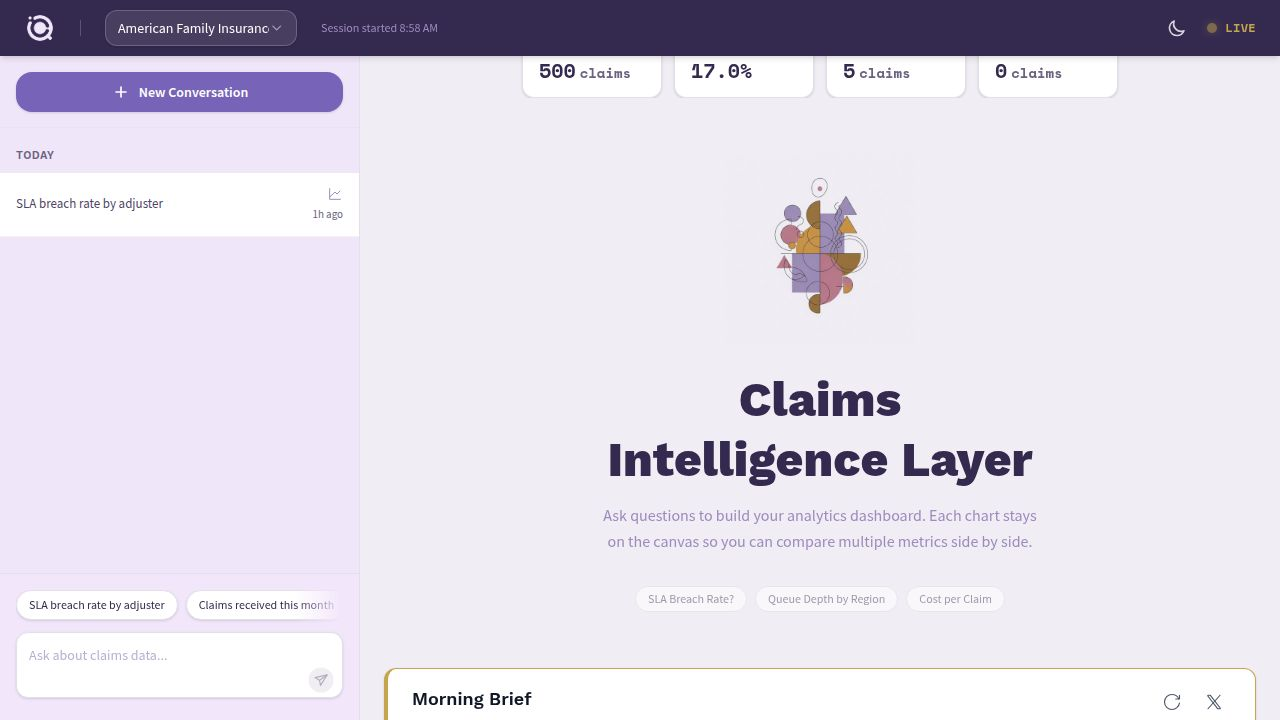
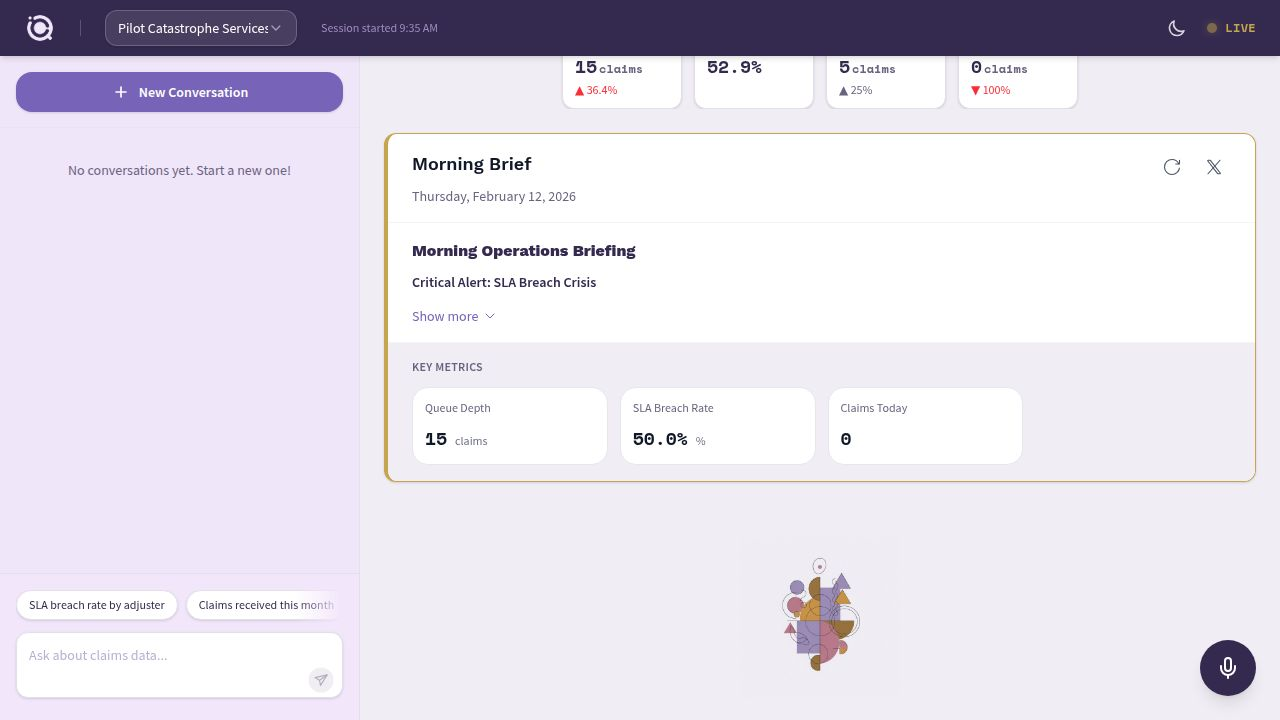
Add week-over-week comparisons for key performance indicators
Update the KPI API to fetch previous week's data and calculate trends. Modify the KPICards component to display trend indicators and delta percentages, including conditional coloring for different metrics.

Replit-Commit-Author: Agent
Replit-Commit-Session-Id: e85cfd7e-20cd-45e2-a64c-8139bcba09b3
Replit-Commit-Checkpoint-Type: intermediate_checkpoint
Replit-Commit-Event-Id: 9e2c9d2c-c643-4b72-8db5-089f8907195e
Replit-Commit-Screenshot-Url: https://storage.googleapis.com/screenshot-production-us-central1/07e38f39-cdea-4e9b-a3f0-44df17dc898c/e85cfd7e-20cd-45e2-a64c-8139bcba09b3/IcplSNJ
Replit-Helium-Checkpoint-Created: true

diff --git a/server/routes/kpis.ts b/server/routes/kpis.ts
@@ -4,36 +4,68 @@ import { getDefaultClientId } from "../config/defaults";
 
 export const kpisRouter = Router();
 
+function computeTrend(current: number, previous: number): { trend: "up" | "down" | "neutral"; delta: number } {
+  if (previous === 0) return { trend: "neutral", delta: 0 };
+  const delta = ((current - previous) / previous) * 100;
+  const rounded = Math.round(delta * 10) / 10;
+  if (rounded > 0) return { trend: "up", delta: rounded };
+  if (rounded < 0) return { trend: "down", delta: Math.abs(rounded) };
+  return { trend: "neutral", delta: 0 };
+}
+
 kpisRouter.get("/api/kpis", async (req: Request, res: Response) => {
   try {
     const clientId =
       (req.query.client_id as string) || await getDefaultClientId();
 
+    const safeClientId = clientId.replace(/'/g, "''");
     const today = new Date().toISOString().split("T")[0];
-    const todayStart = today + "T00:00:00";
     const todayEnd = today + "T23:59:59";
     const weekAgo = new Date(Date.now() - 7 * 24 * 60 * 60 * 1000).toISOString().split("T")[0];
+    const twoWeeksAgo = new Date(Date.now() - 14 * 24 * 60 * 60 * 1000).toISOString().split("T")[0];
 
-    const [queueRes, slaRes, claimsWeekRes, closedWeekRes] = await Promise.all([
+    const [
+      queueRes, queuePrevRes,
+      slaRes, slaPrevRes,
+      claimsWeekRes, claimsPrevWeekRes,
+      closedWeekRes, closedPrevWeekRes,
+    ] = await Promise.all([
       supabase.rpc("execute_raw_sql", {
         query_text: `
           SELECT COUNT(*)::int as value FROM claims c
-          WHERE c.client_id = '${clientId.replace(/'/g, "''")}'
+          WHERE c.client_id = '${safeClientId}'
             AND c.status IN ('open', 'in_progress', 'review')
+        `,
+      }),
+      supabase.rpc("execute_raw_sql", {
+        query_text: `
+          SELECT COUNT(*)::int as value FROM claims c
+          WHERE c.client_id = '${safeClientId}'
+            AND c.status IN ('open', 'in_progress', 'review')
+            AND c.fnol_date < '${weekAgo}'
         `,
       }),
       supabase.rpc("execute_raw_sql", {
         query_text: `
           SELECT ROUND(AVG(CASE WHEN c.sla_breached THEN 1.0 ELSE 0.0 END)::numeric, 4) as value
           FROM claims c
-          WHERE c.client_id = '${clientId.replace(/'/g, "''")}'
+          WHERE c.client_id = '${safeClientId}'
             AND c.fnol_date >= NOW() - INTERVAL '30 days'
         `,
       }),
       supabase.rpc("execute_raw_sql", {
         query_text: `
+          SELECT ROUND(AVG(CASE WHEN c.sla_breached THEN 1.0 ELSE 0.0 END)::numeric, 4) as value
+          FROM claims c
+          WHERE c.client_id = '${safeClientId}'
+            AND c.fnol_date >= NOW() - INTERVAL '60 days'
+            AND c.fnol_date < NOW() - INTERVAL '30 days'
+        `,
+      }),
+      supabase.rpc("execute_raw_sql", {
+        query_text: `
           SELECT COUNT(*)::int as value FROM claims c
-          WHERE c.client_id = '${clientId.replace(/'/g, "''")}'
+          WHERE c.client_id = '${safeClientId}'
             AND c.fnol_date >= '${weekAgo}'
             AND c.fnol_date <= '${todayEnd}'
         `,
@@ -41,40 +73,69 @@ kpisRouter.get("/api/kpis", async (req: Request, res: Response) => {
       supabase.rpc("execute_raw_sql", {
         query_text: `
           SELECT COUNT(*)::int as value FROM claims c
-          WHERE c.client_id = '${clientId.replace(/'/g, "''")}'
+          WHERE c.client_id = '${safeClientId}'
+            AND c.fnol_date >= '${twoWeeksAgo}'
+            AND c.fnol_date < '${weekAgo}'
+        `,
+      }),
+      supabase.rpc("execute_raw_sql", {
+        query_text: `
+          SELECT COUNT(*)::int as value FROM claims c
+          WHERE c.client_id = '${safeClientId}'
             AND c.closed_at IS NOT NULL
             AND c.closed_at >= '${weekAgo}T00:00:00'
             AND c.closed_at <= '${todayEnd}T23:59:59'
         `,
       }),
+      supabase.rpc("execute_raw_sql", {
+        query_text: `
+          SELECT COUNT(*)::int as value FROM claims c
+          WHERE c.client_id = '${safeClientId}'
+            AND c.closed_at IS NOT NULL
+            AND c.closed_at >= '${twoWeeksAgo}T00:00:00'
+            AND c.closed_at < '${weekAgo}T00:00:00'
+        `,
+      }),
     ]);
 
     const queueDepth = (queueRes.data as any)?.[0]?.value ?? 0;
+    const queuePrev = (queuePrevRes.data as any)?.[0]?.value ?? 0;
     const slaBreachRate = (slaRes.data as any)?.[0]?.value ?? 0;
+    const slaPrev = (slaPrevRes.data as any)?.[0]?.value ?? 0;
     const claimsThisWeek = (claimsWeekRes.data as any)?.[0]?.value ?? 0;
+    const claimsPrevWeek = (claimsPrevWeekRes.data as any)?.[0]?.value ?? 0;
     const closedThisWeek = (closedWeekRes.data as any)?.[0]?.value ?? 0;
+    const closedPrevWeek = (closedPrevWeekRes.data as any)?.[0]?.value ?? 0;
+
+    const queueTrend = computeTrend(Number(queueDepth), Number(queuePrev));
+    const slaTrend = computeTrend(Number(slaBreachRate), Number(slaPrev));
+    const claimsTrend = computeTrend(Number(claimsThisWeek), Number(claimsPrevWeek));
+    const closedTrend = computeTrend(Number(closedThisWeek), Number(closedPrevWeek));
 
     res.json({
       success: true,
       data: [
-        { label: "Queue Depth", value: queueDepth, unit: "claims", trend: "neutral" as const },
+        { label: "Queue Depth", value: queueDepth, unit: "claims", trend: queueTrend.trend, delta: queueTrend.delta },
         {
           label: "SLA Breach Rate",
           value: `${(slaBreachRate * 100).toFixed(1)}%`,
           unit: "%",
-          trend: "neutral" as const,
+          trend: slaTrend.trend,
+          delta: slaTrend.delta,
         },
         {
           label: "Claims This Week",
           value: claimsThisWeek,
           unit: "claims",
-          trend: "neutral" as const,
+          trend: claimsTrend.trend,
+          delta: claimsTrend.delta,
         },
         {
           label: "Closed This Week",
           value: closedThisWeek,
           unit: "claims",
-          trend: "neutral" as const,
+          trend: closedTrend.trend,
+          delta: closedTrend.delta,
         },
       ],
     });

diff --git a/client/src/components/KPICards.tsx b/client/src/components/KPICards.tsx
@@ -6,10 +6,23 @@ interface KPIMetric {
   value: string | number;
   unit?: string;
   trend?: "up" | "down" | "neutral";
+  delta?: number;
 }
 
 interface KPICardsProps {
   clientId: string;
+}
+
+function getTrendColor(label: string, trend: "up" | "down" | "neutral"): string {
+  if (trend === "neutral") return "text-text-secondary";
+  if (label === "Claims This Week") return "text-text-secondary";
+  if (label === "Queue Depth" || label === "SLA Breach Rate") {
+    return trend === "up" ? "text-red-500" : "text-green-600";
+  }
+  if (label === "Closed This Week") {
+    return trend === "up" ? "text-green-600" : "text-red-500";
+  }
+  return "text-text-secondary";
 }
 
 export const KPICards: React.FC<KPICardsProps> = ({ clientId }) => {
@@ -51,6 +64,11 @@ export const KPICards: React.FC<KPICardsProps> = ({ clientId }) => {
               <span className="text-xs font-normal text-text-secondary ml-0.5">{kpi.unit}</span>
             )}
           </p>
+          {kpi.trend && kpi.trend !== "neutral" && kpi.delta !== undefined && (
+            <p className={`text-[10px] md:text-xs font-medium mt-0.5 ${getTrendColor(kpi.label, kpi.trend)}`} data-testid={`kpi-trend-${kpi.label.toLowerCase().replace(/\s+/g, "-")}`}>
+              {kpi.trend === "up" ? "▲" : "▼"} {kpi.delta}%
+            </p>
+          )}
         </Card>
       ))}
     </div>
